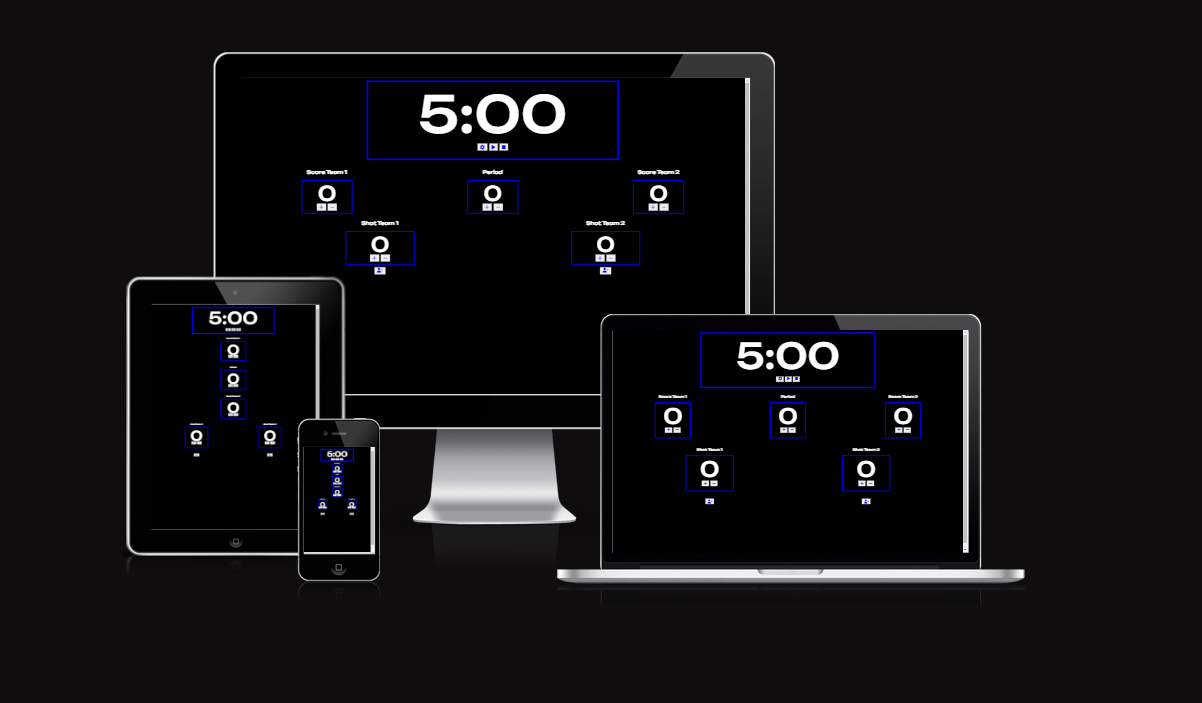
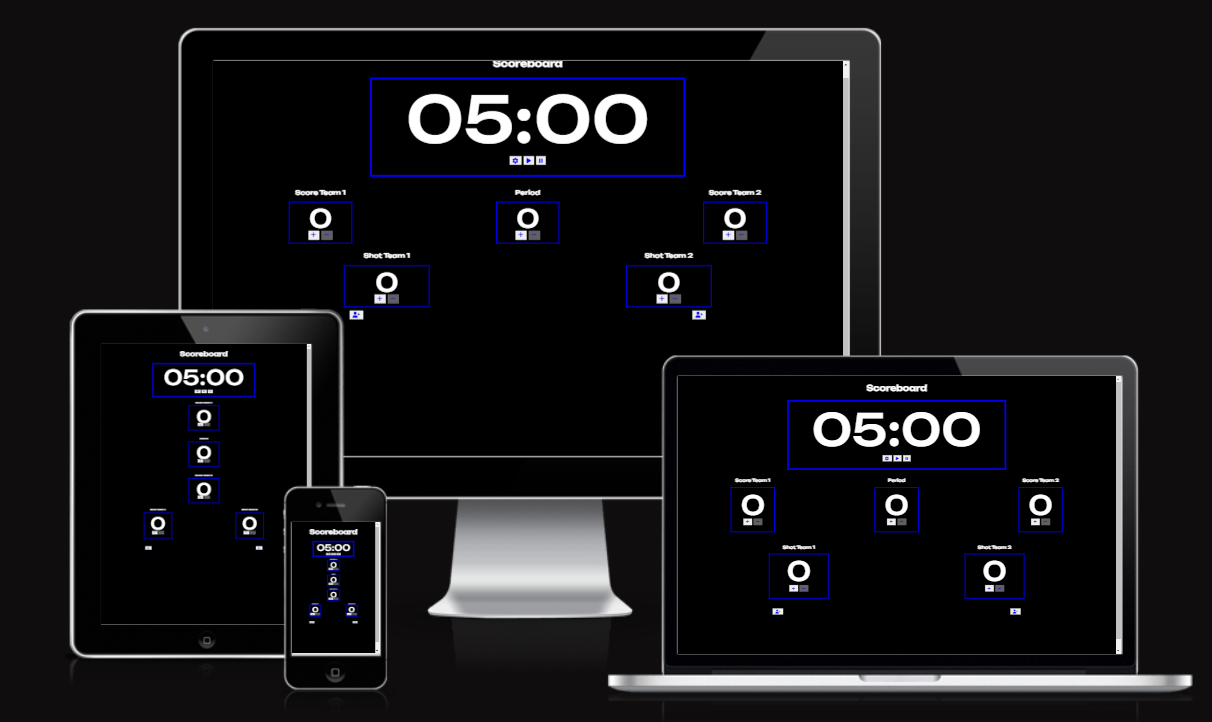
read me fix, ready to issue

Changed region(s): [[0.0616, 0.0299, 0.985, 0.9858], [0.0308, 0.4481, 0.0616, 0.8962]]

diff --git a/README.md b/README.md
@@ -1,6 +1,6 @@
 # Hockey Score Board
 
-The website is a useful scoreboard. The scoreboard is set to the ball hockey timing rules but can easily use for any kind of sports as the functions have been developed to accept all kind of data numbers. It has been designed to be simple and easy to use for the user. In case the user did a mistake, he/she can easily correct it by clicking to the opposite button. It fits for all size of media, but I strongly suggest to use a desktop so the user can share his screen on a tv by example so all players can see the time running down.
+The website is a useful scoreboard. The scoreboard is set to the ball hockey timing rules but can easily use for any kind of sports as the functions have been developed to accept all kind of data numbers. It has been designed to be simple and easy to use for the user. In case the user did a mistake, he/she can easily correct it by clicking to the opposite button. It fits for all size of media, but I strongly suggest using a desktop so the user can share his screen on a tv by example so all players can see the time running down.
 
 ![Am I Responsive](assets/images/amiresponsive.png)
 
@@ -13,36 +13,36 @@ The website is a simple ball hockey Score board with program time for each perio
 __Timer__
 
 - The timer is the biggest object in the page to ensure all players can see the time. The timer has 3 functions:
-    - Set Time: By click on the setting button, the user can modify the time. If the value of second exceeds 60, an error message is sent to the user. If the value of minutes exceed 100, an alert message is sent to the user telling him that the game is way too long but the command is still executed to accommodate user who would like to set up the timer for a 2 hours free play by example.
-    - Play time: The timer starts going down by one second for every tick.
-    - Stop time: The timer stops ticking.
+    - Set Time: By click on the setting button, the user can modify the time. The value for the minutes is unlimited but the value for the seconds is limited between 0 and 59.
+    - Play time: The timer starts going down by one second for every tick. When the page loads, the pause button is disabled. When the play button is clicked, it becomes disabled and, the pause button is abled.
+    - Pause time: The timer stops ticking. Once the pause button is clicked, it becomes disabled, and the play button is abled.
 
 ![Score Board](assets/images/scoreboard.png)
 ![Score Board Setting](assets/images/scoreboard-setting.png)
 
 __Goal panel__
 
-- The goal panels are shown on each side for each team. The user can add/remove a goal to/from each team.
+- The goal panels are shown on each side for each team. The user can add/remove a goal to/from each team. When the value is 0, the minus button is disabled.
 
 ![Goal Panel](assets/images/goal-team-1.png)
 ![Goal Panel](assets/images/goal-team-2.png)
 
 __Period Panel__
 
-- The period panel is between the goal panel of each team. It is initially set to 0. If the user tries to remove a period when it is at 0, it will send an error message 'Impossible!'. When the user increases the period to 1,2 & 3, the time will be set to 10 minutes and an alert message is sent stating 'Beginning or Period 1/2/3. When the user increase to period 4, the message is 'Beginning of overtime!' and the time is set to 5 mins.
+- The period panel is between the goal panel of each team. It is initially set to 0 and 5 minutes on the timer. When the user increases the period to 1,2 & 3, the time will be set to 10 minutes. When the user increase to period 4 and the time is set to 5 mins. This is to represent a free play at the period 0 for player to practice shots and goalkeeper to warm up. Then the periods start which are 10 minutes in normal hockey ball league. The period 4 represent an overtime which are normally 5 minutes. When the value is 0, the minus button is disabled.
 
 
 ![Period Panel](assets/images/period.png)
 
 __Shot panel__
 
-- The shot panels are shown on each side for each team. The user can add/remove a shot to/from each team. 
+- The shot panels are shown on each side for each team. The user can add/remove a shot to/from each team. When the value is 0, the minus button is disabled.
 
 ![Shot Panel](assets/images/shot.png)
 
 __Rooster Panel__
 
-- The Rooster panels are shown on each side for each team. The user can add the rooster of each team. When the button is clicked, a form is added to the div setting. 3 entries are required before submitting the form: the player #, player first name and player last name. Once submitted, the form is removed from the div setting the information of the player are added to the div rooster.
+- The Rooster panels are shown on each side for each team. The user can add the rooster of each team. When the button is clicked, a form is added to the div setting. 3 entries are required before submitting the form: the player #, player first name and player last name. Once submitted, the form is removed from the div setting the information of the player are added to the div rooster. The rooster ppanel is disabled while filling the form to avoid adding multiple form to the score board.
 
 
 ![Rooster Panel](assets/images/rooster.png)
